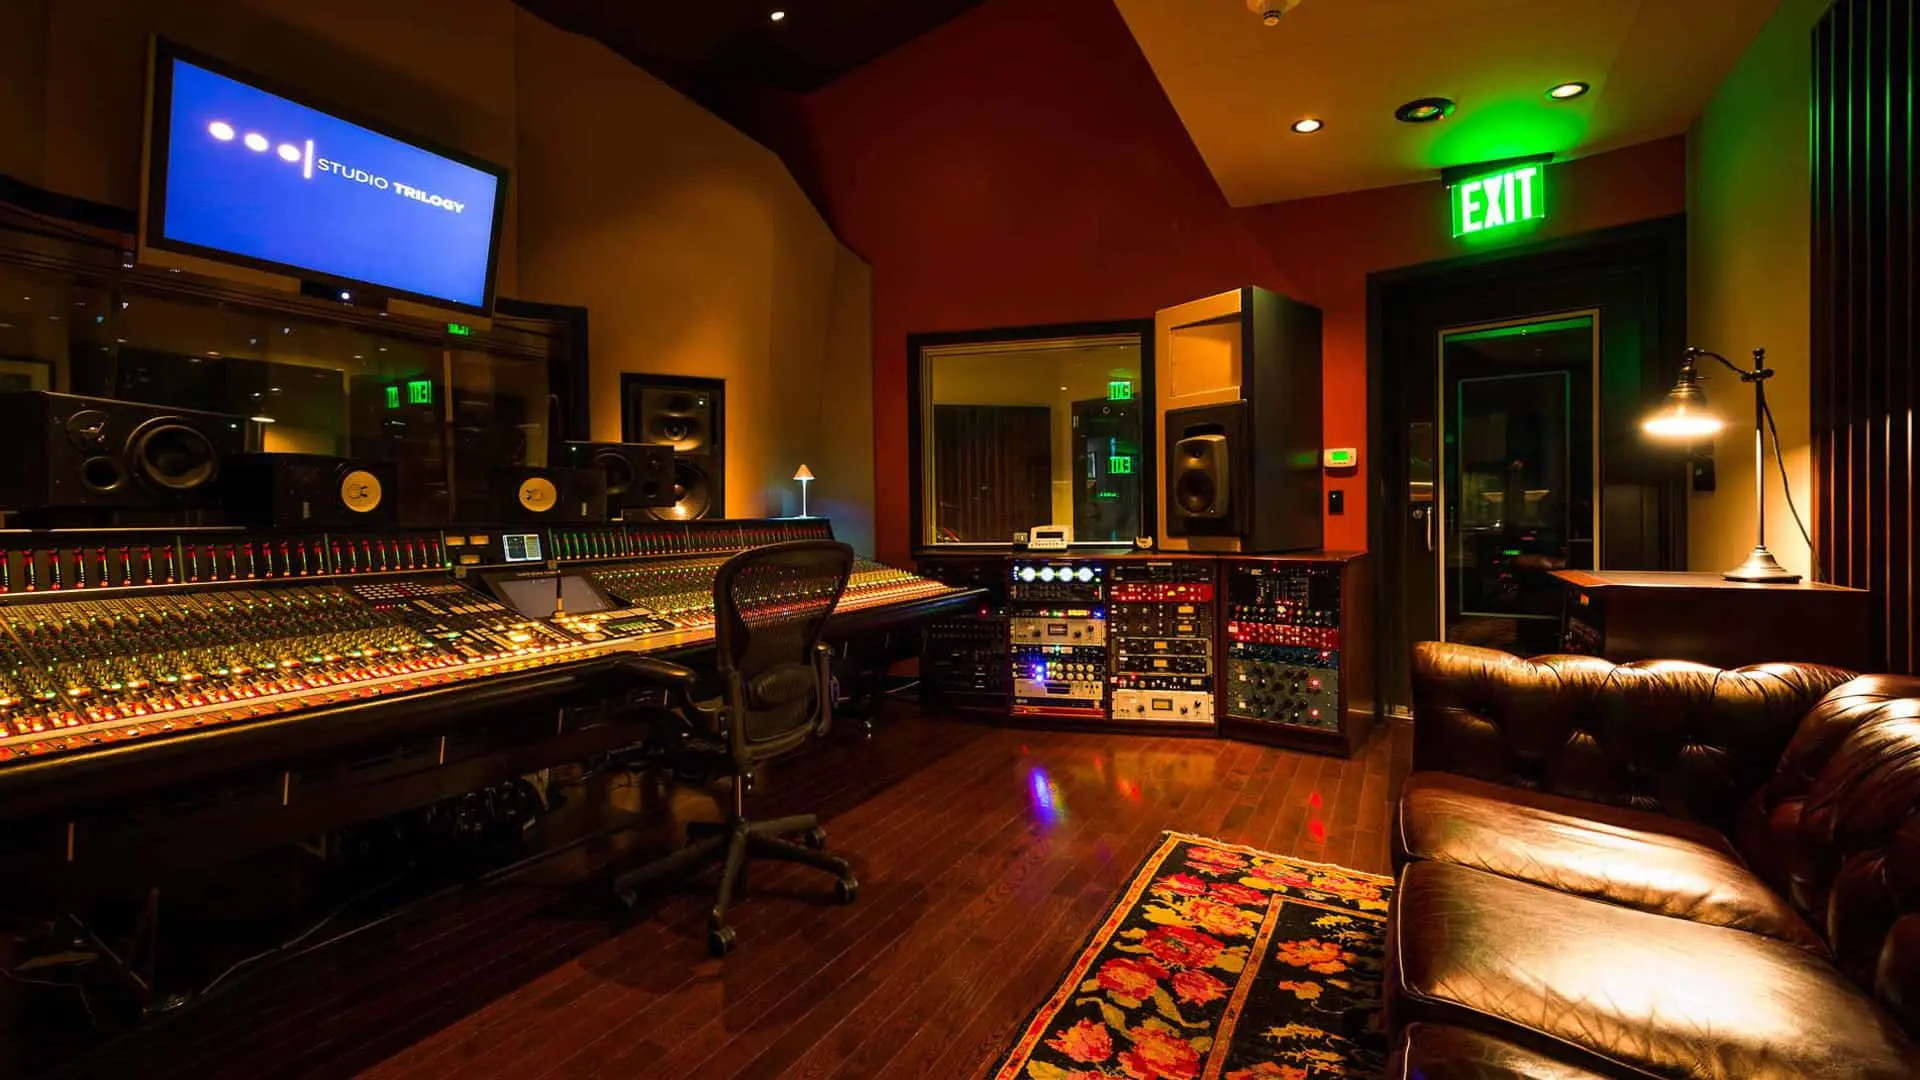
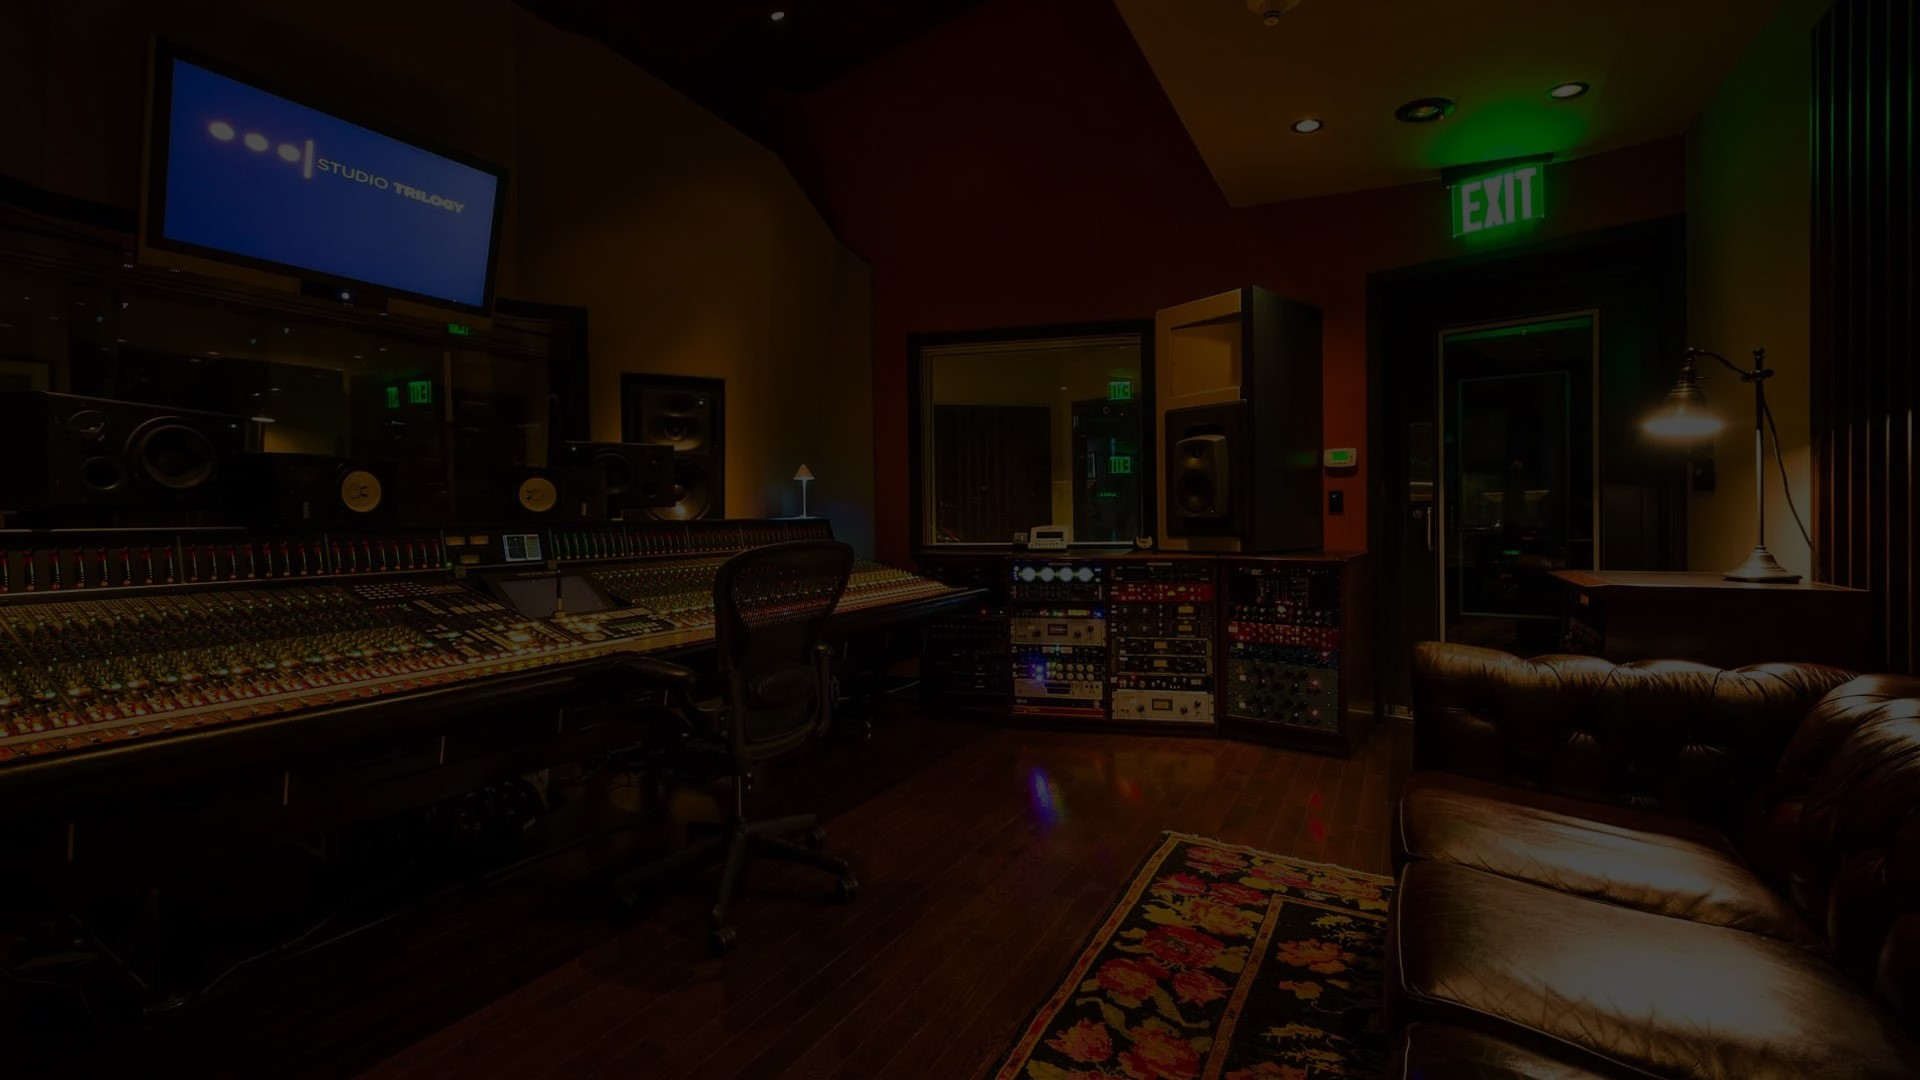
Actualizacion de diseño

diff --git a/index.html b/index.html
@@ -2,6 +2,7 @@
 <html lang="es">
 <head>
     <meta charset="UTF-8">
+    <meta name="theme-color" content="#0f0f14">
     <meta name="viewport" content="width=device-width, initial-scale=1.0">
     <title>Curso Multimedia</title>
     <link rel="preconnect" href="https://fonts.googleapis.com">
@@ -86,12 +87,12 @@
         </div>
     </main>
 
-    <footer class="glasshaven-footer glass-panel scroll-animate">
+    <!-- <footer class="glasshaven-footer glass-panel scroll-animate">
         <div class="container-premium footer-flex-box">
             <p class="f-logo">profesor<span>.virtual</span></p>
             <p class="f-copy">&copy; 2026 - Aula Virtual Desarrollada con Cloudflare Pages. Todos los derechos reservados.</p>
         </div>
-    </footer>
+    </footer> -->
 
     <button class="btn-abrir-carrito-flotante" onclick="alternarCarrito()">
         🛒 <span id="contador-recuento" style="display: none;">0</span>

diff --git a/admin.html b/admin.html
@@ -34,7 +34,9 @@
             
             <div style="margin-bottom: 15px;">
                 <label>Enlace de la Imagen (ImgBB):</label><br>
-                <input type="url" id="cms-imagen" placeholder="https://i.ibb.co/xxxx/foto.jpg" required style="width: 100%; padding: 8px; box-sizing: border-box;">
+                <input type="url" id="cms-imagen" placeholder="https://ibb.co/XXXXXXXX" required style="width: 100%; padding: 8px; box-sizing: border-box;">
+                <h2>👇</h2>
+                <a href="https://imgbb.com/" target="_blank" style="color: #007bff; text-decoration: underline;">Subir Su Imagen Aquí</a>
             </div>
 
             <button type="submit" style="background: #28a745; color: white; border: none; padding: 10px 15px; cursor: pointer; width: 100%; font-weight: bold; border-radius: 4px;">
